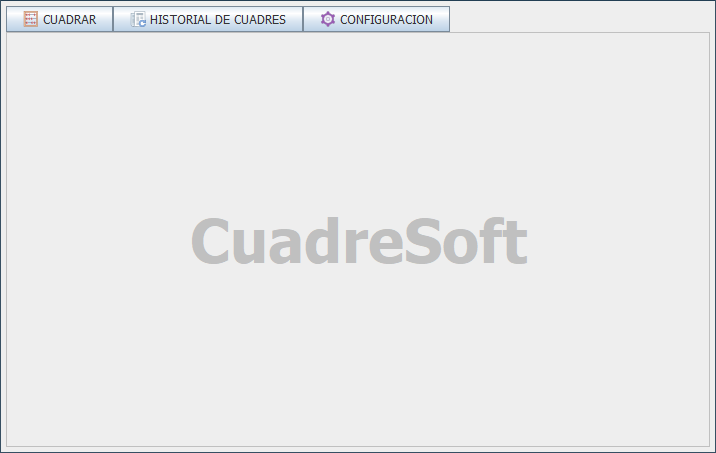
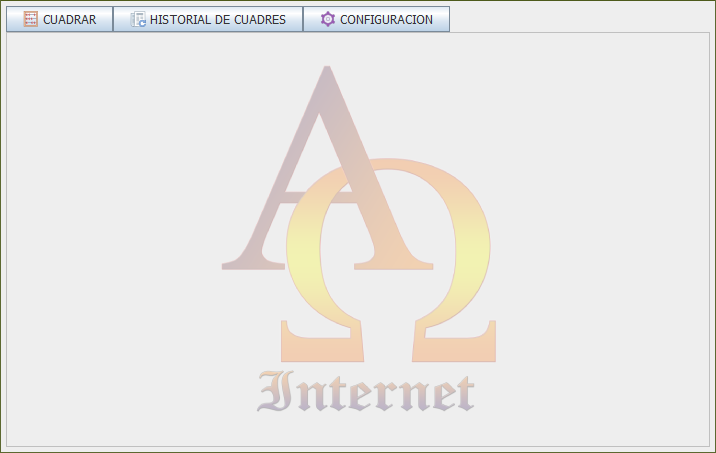
cambios visuales

diff --git a/src/Vista/FrameAsistente.java b/src/Vista/FrameAsistente.java
@@ -27,6 +27,7 @@ import javax.swing.GroupLayout.Alignment;
 import java.awt.Checkbox;
 import javax.swing.JLabel;
 import javax.swing.SwingConstants;
+import java.awt.Toolkit;
 
 public class FrameAsistente extends JFrame {
 
@@ -44,6 +45,8 @@ public class FrameAsistente extends JFrame {
 	 * Create the frame.
 	 */
 	public FrameAsistente() {
+		setTitle("Asistente de configuracion inicial");
+		setIconImage(Toolkit.getDefaultToolkit().getImage(FrameAsistente.class.getResource("/Img/icono.png")));
 		setResizable(false);
 		setDefaultCloseOperation(JFrame.EXIT_ON_CLOSE);
 		setSize(500, 350);
@@ -127,14 +130,13 @@ public class FrameAsistente extends JFrame {
 		panel_1.add(panel_3);
 		panel_3.setLayout(new GridLayout(2, 1, 0, 0));
 		
-		JLabel lblNewLabel = new JLabel("Hacer que la ventana este siempre sobre cualquier otra:");
+		JLabel lblNewLabel = new JLabel("Hacer que la ventana este siempre sobre cualquier otra (Caracteristica beta):");
 		lblNewLabel.setFont(new Font("Tahoma", Font.PLAIN, 12));
 		lblNewLabel.setHorizontalTextPosition(SwingConstants.LEADING);
 		panel_3.add(lblNewLabel);
 		
 		CheckActivar = new JCheckBox("Activar");
 		CheckActivar.setFont(new Font("Tahoma", Font.BOLD, 12));
-		CheckActivar.setSelected(true);
 		panel_3.add(CheckActivar);
 		
 		JPanel panel_4 = new JPanel();

diff --git a/src/Vista/FrameVistaPrincipal.java b/src/Vista/FrameVistaPrincipal.java
@@ -24,6 +24,7 @@ import javax.swing.DebugGraphics;
 import javax.swing.JCheckBox;
 import java.awt.event.ActionListener;
 import java.awt.event.ActionEvent;
+import java.awt.Toolkit;
 
 /*
  * VIsta principal del programa
@@ -47,6 +48,7 @@ public class FrameVistaPrincipal extends JFrame {
 	
 
 	public FrameVistaPrincipal() {
+		setIconImage(Toolkit.getDefaultToolkit().getImage(FrameVistaPrincipal.class.getResource("/Img/icono.png")));
 		
 		setTitle("CuadreSoft 1.0.1");
 		setDefaultCloseOperation(JFrame.EXIT_ON_CLOSE);
@@ -129,7 +131,8 @@ public class FrameVistaPrincipal extends JFrame {
 		contentPane.add(PanelCentral, BorderLayout.CENTER);
 		PanelCentral.setLayout(new BorderLayout(0, 0));
 		
-		lblNewLabel = new JLabel("CuadreSoft");
+		lblNewLabel = new JLabel("");
+		lblNewLabel.setIcon(new ImageIcon(FrameVistaPrincipal.class.getResource("/Img/logo.png")));
 		lblNewLabel.setForeground(Color.LIGHT_GRAY);
 		lblNewLabel.setFont(new Font("Tahoma", Font.BOLD, 60));
 		lblNewLabel.setHorizontalTextPosition(SwingConstants.CENTER);

diff --git a/src/Vista/DlgNota.java b/src/Vista/DlgNota.java
@@ -10,6 +10,7 @@ import javax.swing.border.EmptyBorder;
 import javax.swing.JTextArea;
 import java.awt.Font;
 import javax.swing.JScrollPane;
+import java.awt.Toolkit;
 
 public class DlgNota extends JDialog {
 
@@ -23,6 +24,8 @@ public class DlgNota extends JDialog {
 	 * Create the dialog.
 	 */
 	public DlgNota() {
+		setTitle("Notas");
+		setIconImage(Toolkit.getDefaultToolkit().getImage(DlgNota.class.getResource("/Img/icono.png")));
 		setSize(450, 300);
 		setLocationRelativeTo(null);
 		getContentPane().setLayout(new BorderLayout());

diff --git a/src/Vista/FrameCarga.java b/src/Vista/FrameCarga.java
@@ -13,6 +13,7 @@ import javax.swing.ImageIcon;
 import java.awt.Color;
 import javax.swing.JProgressBar;
 import java.awt.Font;
+import java.awt.Toolkit;
 
 public class FrameCarga extends JFrame {
 
@@ -22,6 +23,7 @@ public class FrameCarga extends JFrame {
 	 * Create the frame.
 	 */
 	public FrameCarga() {
+		setIconImage(Toolkit.getDefaultToolkit().getImage(FrameCarga.class.getResource("/Img/icono.png")));
 		
 		setBackground(Color.WHITE);
 		setUndecorated(true);
